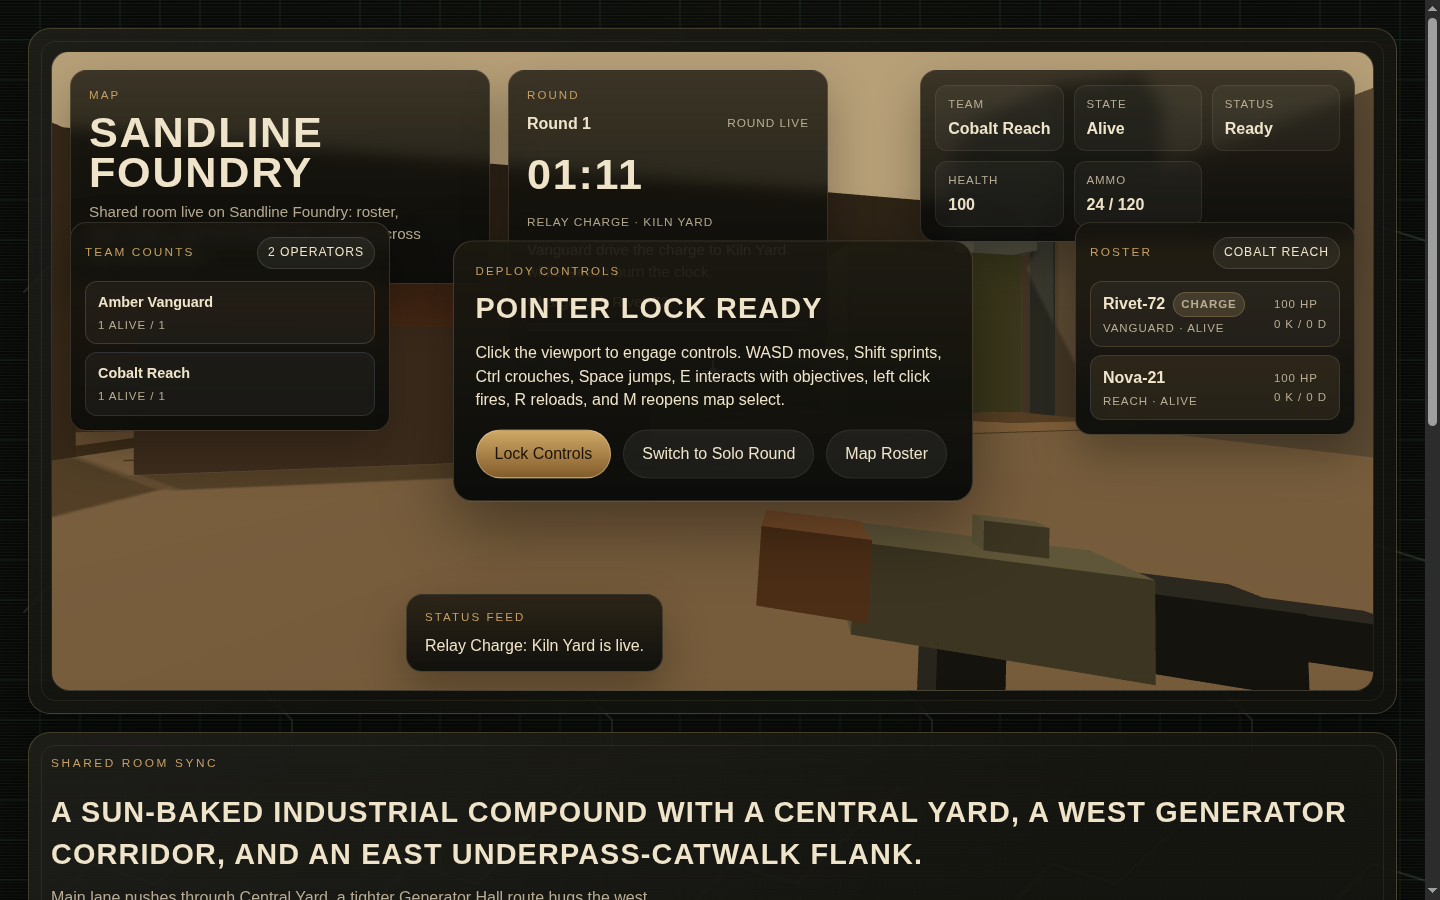
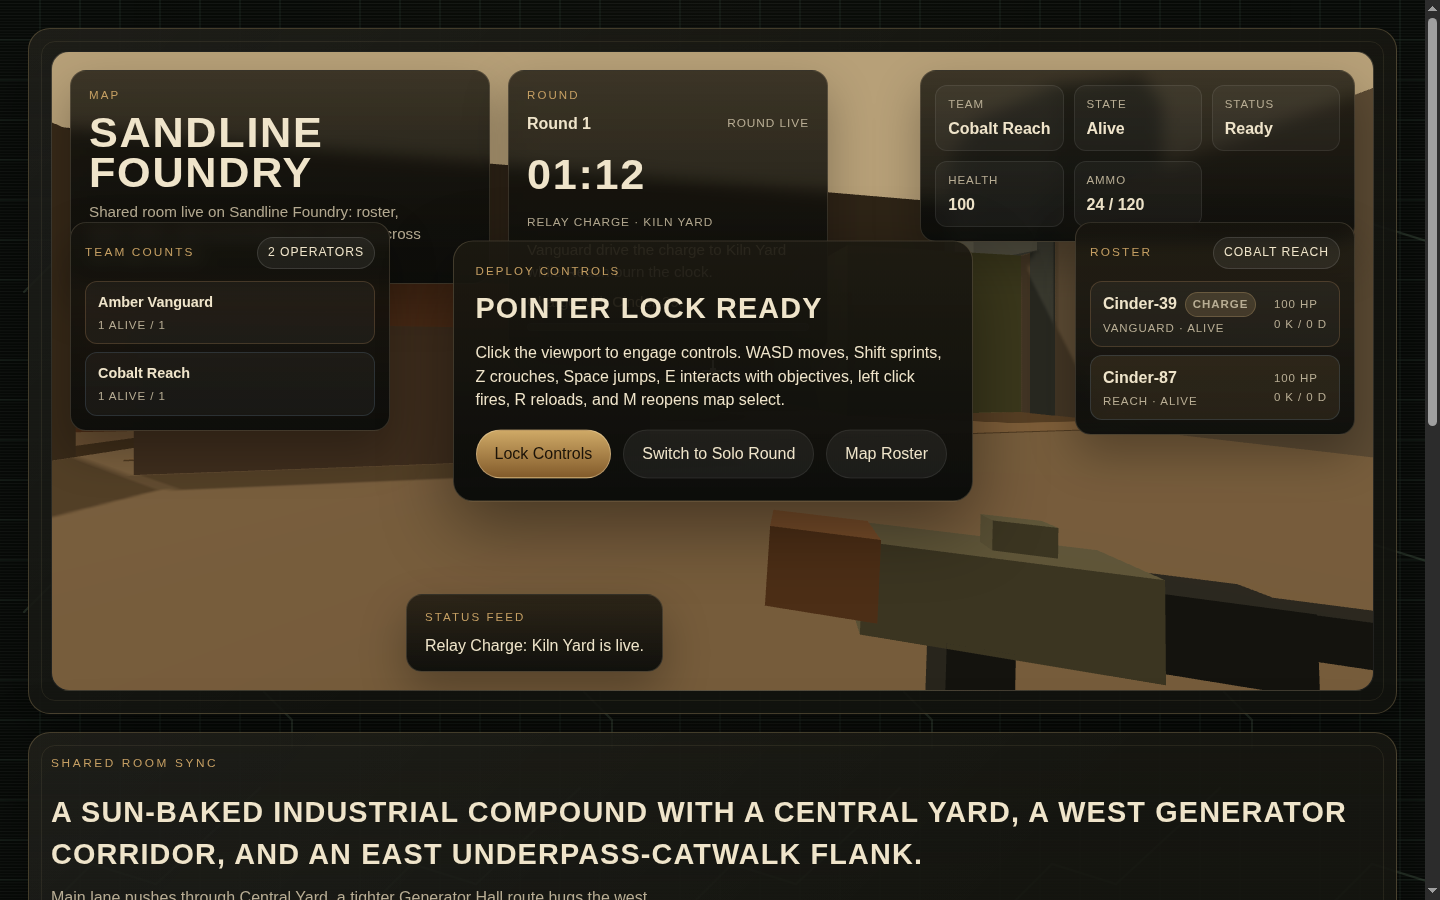
Fix browser-safe gameplay controls

diff --git a/src/game/localMatch.ts b/src/game/localMatch.ts
@@ -49,6 +49,13 @@ import {
   type PlayerMovementState,
 } from "./playerMovement";
 import {
+  CLASSIC_CROUCH_KEY_CODES,
+  CROUCH_KEY_CODES,
+  SPRINT_KEY_CODES,
+  crouchControlLabel,
+  hasAnyKey,
+} from "./controls";
+import {
   createBombRuntimeState,
   currentBombProgress,
   hydrateBombRuntimeState,
@@ -127,6 +134,7 @@ const PLAYER_NOISE_INTERVAL = 0.28;
 const PLAYER_NOISE_HEARING_RADIUS = 19;
 const ENEMY_CROUCH_EYE_HEIGHT = 1.08;
 const ENEMY_STANDING_EYE_HEIGHT = 1.45;
+const CAPTURED_KEY_EVENT_OPTIONS = { capture: true };
 
 const ENEMY_NAMES = ["Copper-2", "Vale-3", "Rook-4"];
 
@@ -185,6 +193,7 @@ export interface LocalMatchSnapshot {
 interface LocalMatchOptions {
   mode: MatchMode;
   teamPreference: TeamPreference;
+  classicCrouchAlias: boolean;
   onActionRequest?: (action: "catalog" | "menu") => void;
   onSnapshot: (snapshot: LocalMatchSnapshot) => void;
 }
@@ -323,6 +332,7 @@ export class LocalMatch {
   private fallbackLookEnabled = false;
   private jumpRequested = false;
   private interactHeld = false;
+  private classicCrouchAlias: boolean;
   private playerMoveBlend = 0;
   private playerSpeed = 0;
   private playerGrounded = true;
@@ -367,6 +377,7 @@ export class LocalMatch {
     this.controls.pointerSpeed = 0.88;
     this.controls.addEventListener("lock", this.handlePointerLock);
     this.controls.addEventListener("unlock", this.handlePointerLock);
+    this.classicCrouchAlias = options.classicCrouchAlias;
 
     this.weaponRig = createWeaponRig();
     this.camera.add(this.weaponRig.group);
@@ -737,6 +748,17 @@ export class LocalMatch {
     if (!this.playerDead) {
       this.fallbackLookEnabled = true;
       this.jumpRequested = true;
+    }
+
+    this.emitSnapshot();
+  }
+
+  setClassicCrouchAlias(enabled: boolean): void {
+    this.classicCrouchAlias = enabled;
+
+    if (!enabled) {
+      this.movementKeys.delete("ControlLeft");
+      this.movementKeys.delete("ControlRight");
     }
 
     this.emitSnapshot();
@@ -1482,22 +1504,24 @@ export class LocalMatch {
 
   private attachEvents(): void {
     window.addEventListener("resize", this.handleResize);
-    window.addEventListener("keydown", this.handleKeyDown);
-    window.addEventListener("keyup", this.handleKeyUp);
+    window.addEventListener("keydown", this.handleKeyDown, CAPTURED_KEY_EVENT_OPTIONS);
+    window.addEventListener("keyup", this.handleKeyUp, CAPTURED_KEY_EVENT_OPTIONS);
     window.addEventListener("mousedown", this.handleMouseDown);
     window.addEventListener("mouseup", this.handleMouseUp);
     window.addEventListener("mousemove", this.handleMouseMove);
     window.addEventListener("blur", this.handleBlur);
+    document.addEventListener("visibilitychange", this.handleVisibilityChange);
   }
 
   private detachEvents(): void {
     window.removeEventListener("resize", this.handleResize);
-    window.removeEventListener("keydown", this.handleKeyDown);
-    window.removeEventListener("keyup", this.handleKeyUp);
+    window.removeEventListener("keydown", this.handleKeyDown, CAPTURED_KEY_EVENT_OPTIONS);
+    window.removeEventListener("keyup", this.handleKeyUp, CAPTURED_KEY_EVENT_OPTIONS);
     window.removeEventListener("mousedown", this.handleMouseDown);
     window.removeEventListener("mouseup", this.handleMouseUp);
     window.removeEventListener("mousemove", this.handleMouseMove);
     window.removeEventListener("blur", this.handleBlur);
+    document.removeEventListener("visibilitychange", this.handleVisibilityChange);
     this.controls.removeEventListener("lock", this.handlePointerLock);
     this.controls.removeEventListener("unlock", this.handlePointerLock);
   }
@@ -1514,19 +1538,21 @@ export class LocalMatch {
     if (this.controls.isLocked) {
       this.audio.prime();
     } else {
-      this.primaryFireHeld = false;
+      this.clearActiveInput(true);
     }
 
     this.emitSnapshot();
   };
 
   private readonly handleKeyDown = (event: KeyboardEvent): void => {
+    this.preventDefaultWhenInputCaptured(event);
+
     if (event.repeat) {
       return;
     }
 
     if (event.code === "Escape") {
-      this.fallbackLookEnabled = false;
+      this.clearActiveInput(true);
       if (this.controls.isLocked) {
         this.controls.unlock();
       }
@@ -1565,6 +1591,8 @@ export class LocalMatch {
   };
 
   private readonly handleKeyUp = (event: KeyboardEvent): void => {
+    this.preventDefaultWhenInputCaptured(event);
+
     if (event.code === "KeyE") {
       this.interactHeld = false;
     }
@@ -1617,13 +1645,45 @@ export class LocalMatch {
   };
 
   private readonly handleBlur = (): void => {
+    this.clearActiveInput(true);
+    this.emitSnapshot();
+  };
+
+  private readonly handleVisibilityChange = (): void => {
+    if (!document.hidden) {
+      return;
+    }
+
+    this.clearActiveInput(true);
+    this.emitSnapshot();
+  };
+
+  private clearActiveInput(releaseFallbackLook: boolean): void {
     this.primaryFireHeld = false;
     this.jumpRequested = false;
     this.interactHeld = false;
     this.movementKeys.clear();
-    this.fallbackLookEnabled = false;
-    this.emitSnapshot();
-  };
+    if (releaseFallbackLook) {
+      this.fallbackLookEnabled = false;
+    }
+  }
+
+  private preventDefaultWhenInputCaptured(event: KeyboardEvent): void {
+    if (!this.inputCaptured() || this.isEditableEventTarget(event.target)) {
+      return;
+    }
+
+    event.preventDefault();
+  }
+
+  private isEditableEventTarget(target: EventTarget | null): boolean {
+    return (
+      target instanceof HTMLInputElement ||
+      target instanceof HTMLTextAreaElement ||
+      target instanceof HTMLSelectElement ||
+      (target instanceof HTMLElement && target.isContentEditable)
+    );
+  }
 
   private readonly animate = (): void => {
     this.animationHandle = requestAnimationFrame(this.animate);
@@ -1731,10 +1791,8 @@ export class LocalMatch {
         enabled: this.inputCaptured() && !this.playerDead,
         moveX,
         moveZ,
-        sprinting:
-          this.movementKeys.has("ShiftLeft") || this.movementKeys.has("ShiftRight"),
-        crouching:
-          this.movementKeys.has("ControlLeft") || this.movementKeys.has("ControlRight"),
+        sprinting: hasAnyKey(this.movementKeys, SPRINT_KEY_CODES),
+        crouching: this.crouchHeld(),
         jumpRequested: this.jumpRequested,
       },
       this.tempForward,
@@ -3443,15 +3501,17 @@ export class LocalMatch {
   }
 
   private promptText(): string {
+    const crouchLabel = crouchControlLabel(this.classicCrouchAlias);
+
     if (this.activeMode === "shared") {
-      return "Click the viewport to engage controls. WASD moves, Shift sprints, Ctrl crouches, Space jumps, E interacts with objectives, left click fires, R reloads, and M reopens map select.";
+      return `Click the viewport to engage controls. WASD moves, Shift sprints, ${crouchLabel} crouches, Space jumps, E interacts with objectives, left click fires, R reloads, and M reopens map select.`;
     }
 
     if (this.options.mode === "shared" && this.sharedRoomFallbackReason) {
-      return "Click the viewport to engage controls. Shared-room sync could not start here, so the app stayed in the solo round without crashing. WASD moves, Shift sprints, Ctrl crouches, Space jumps, E interacts with objectives, left click fires, R reloads, and M reopens map select.";
+      return `Click the viewport to engage controls. Shared-room sync could not start here, so the app stayed in the solo round without crashing. WASD moves, Shift sprints, ${crouchLabel} crouches, Space jumps, E interacts with objectives, left click fires, R reloads, and M reopens map select.`;
     }
 
-    return "Click the viewport to engage controls. Pointer lock is used when available; fallback mouse-look stays browser-safe. WASD moves, Shift sprints, Ctrl crouches, Space jumps, E interacts with objectives, left click fires, R reloads, and M reopens map select.";
+    return `Click the viewport to engage controls. Pointer lock is used when available; fallback mouse-look stays browser-safe. WASD moves, Shift sprints, ${crouchLabel} crouches, Space jumps, E interacts with objectives, left click fires, R reloads, and M reopens map select.`;
   }
 
   private publishRoomState(force = false): void {
@@ -3487,6 +3547,13 @@ export class LocalMatch {
 
   private inputCaptured(): boolean {
     return this.controls.isLocked || this.fallbackLookEnabled;
+  }
+
+  private crouchHeld(): boolean {
+    return (
+      hasAnyKey(this.movementKeys, CROUCH_KEY_CODES) ||
+      (this.classicCrouchAlias && hasAnyKey(this.movementKeys, CLASSIC_CROUCH_KEY_CODES))
+    );
   }
 
   private enemyEyeHeight(enemy: EnemyActor, stance = enemy.ai.stance): number {

diff --git a/src/ui/templates.ts b/src/ui/templates.ts
@@ -1,6 +1,7 @@
 import { missionBadges } from "../game/missions";
 import type { MatchMode } from "../game/multiplayerRoom";
 import { TEAM_ORDER, getTeamDefinition, teamPreferenceLabel } from "../game/teams";
+import { crouchControlLabel } from "../game/controls";
 import type { MapDefinition, TeamPreference } from "../types";
 import { renderPreviewSvg } from "./previewSvg";
 
@@ -109,9 +110,9 @@ function mapRibbonButton(map: MapDefinition, activeMapId: string, mode: MatchMod
   `;
 }
 
-function controlHint(label: string, text: string): string {
+function controlHint(label: string, text: string, dataUi?: string): string {
   return `
-    <div class="control-hint">
+    <div class="control-hint" ${dataUi ? `data-ui="${dataUi}"` : ""}>
       <p>${escapeHtml(label)}</p>
       <span>${escapeHtml(text)}</span>
     </div>
@@ -195,11 +196,13 @@ export function renderMapStage(
   maps: MapDefinition[],
   mode: MatchMode,
   teamPreference: TeamPreference,
+  classicCrouchAlias: boolean,
 ): string {
   const modeEyebrow = mode === "shared" ? "Shared Room Sync" : "Solo Round";
   const switchModeLabel = mode === "shared" ? "Switch to Solo Round" : "Switch to Shared Room";
   const switchMode = mode === "shared" ? "local" : "shared";
   const missionLabels = missionBadges(map);
+  const crouchLabel = crouchControlLabel(classicCrouchAlias);
 
   return `
     <section class="screen screen--match">
@@ -291,7 +294,7 @@ export function renderMapStage(
                 <p class="hud-label">Deploy Controls</p>
                 <h2>Pointer Lock Ready</h2>
                 <p data-ui="prompt">
-                  Click the viewport to lock the mouse. WASD moves, Shift sprints, Ctrl crouches, Space jumps, E interacts with objectives, left click fires, R reloads, and M reopens map select.
+                  Click the viewport to lock the mouse. WASD moves, Shift sprints, ${escapeHtml(crouchLabel)} crouches, Space jumps, E interacts with objectives, left click fires, R reloads, and M reopens map select.
                 </p>
                 <div class="hud-overlay__actions">
                   <button class="button button--primary" data-action="lock-match">Lock Controls</button>
@@ -321,11 +324,12 @@ export function renderMapStage(
           <div class="match-console__actions">
             <button class="button" data-action="show-catalog">Change Map</button>
             <button class="button" data-action="open-map" data-mode="${switchMode}" data-map-id="${map.id}">${switchModeLabel}</button>
+            <button class="button" data-action="toggle-classic-crouch" data-ui="classic-crouch-toggle" aria-pressed="${classicCrouchAlias}">Ctrl Crouch ${classicCrouchAlias ? "On" : "Off"}</button>
             <button class="button button--primary" data-action="show-menu">Return to Briefing</button>
           </div>
           <div class="control-grid">
             ${controlHint("Move", "WASD + Shift")}
-            ${controlHint("Crouch", "Ctrl")}
+            ${controlHint("Crouch", crouchLabel, "crouch-control")}
             ${controlHint("Jump", "Space")}
             ${controlHint("Interact", "E")}
             ${controlHint("Shoot", "Left Click")}

diff --git a/src/ui/app.ts b/src/ui/app.ts
@@ -1,4 +1,8 @@
 import { featuredMap, getMapById, mapCatalog } from "../data/maps";
+import {
+  CLASSIC_CROUCH_STORAGE_KEY,
+  crouchControlLabel,
+} from "../game/controls";
 import type { LocalMatch, LocalMatchSnapshot } from "../game/localMatch";
 import type { MatchMode } from "../game/multiplayerRoom";
 import { getTeamDefinition, isTeamId } from "../game/teams";
@@ -7,11 +11,28 @@ import { renderCatalog, renderMapStage, renderMenu } from "./templates";
 
 type Screen = "menu" | "catalog" | "stage";
 
+function readClassicCrouchAlias(): boolean {
+  try {
+    return localStorage.getItem(CLASSIC_CROUCH_STORAGE_KEY) === "true";
+  } catch {
+    return false;
+  }
+}
+
+function writeClassicCrouchAlias(enabled: boolean): void {
+  try {
+    localStorage.setItem(CLASSIC_CROUCH_STORAGE_KEY, String(enabled));
+  } catch {
+    // Storage can be unavailable in hardened browser contexts.
+  }
+}
+
 export class TacticalShellApp {
   private screen: Screen = "menu";
   private activeMapId = featuredMap.id;
   private activeMode: MatchMode = "shared";
   private teamPreference: TeamPreference = "auto";
+  private classicCrouchAlias = readClassicCrouchAlias();
   private match?: LocalMatch;
   private renderToken = 0;
 
@@ -60,6 +81,12 @@ export class TacticalShellApp {
       case "lock-match":
         this.match?.requestPointerLock();
         return;
+      case "toggle-classic-crouch":
+        this.classicCrouchAlias = !this.classicCrouchAlias;
+        writeClassicCrouchAlias(this.classicCrouchAlias);
+        this.match?.setClassicCrouchAlias(this.classicCrouchAlias);
+        this.syncClassicCrouchUi();
+        return;
       case "set-team":
         if (!team) {
           return;
@@ -100,6 +127,7 @@ export class TacticalShellApp {
       mapCatalog,
       this.activeMode,
       this.teamPreference,
+      this.classicCrouchAlias,
     );
 
     const host = this.root.querySelector<HTMLElement>("[data-world-host]");
@@ -133,6 +161,7 @@ export class TacticalShellApp {
       match = new LocalMatch(host, map, {
         mode: this.activeMode,
         teamPreference: this.teamPreference,
+        classicCrouchAlias: this.classicCrouchAlias,
         onActionRequest: (action) => {
           if (token !== this.renderToken) {
             return;
@@ -309,6 +338,22 @@ export class TacticalShellApp {
     }
     if (objectiveProgressFill) {
       objectiveProgressFill.style.width = `${Math.max(0, Math.min(1, snapshot.objectiveProgress)) * 100}%`;
+    }
+
+    this.syncClassicCrouchUi();
+  }
+
+  private syncClassicCrouchUi(): void {
+    const label = crouchControlLabel(this.classicCrouchAlias);
+    const crouchHint = this.root.querySelector<HTMLElement>('[data-ui="crouch-control"] span');
+    if (crouchHint) {
+      crouchHint.textContent = label;
+    }
+
+    const toggle = this.root.querySelector<HTMLButtonElement>('[data-ui="classic-crouch-toggle"]');
+    if (toggle) {
+      toggle.textContent = `Ctrl Crouch ${this.classicCrouchAlias ? "On" : "Off"}`;
+      toggle.setAttribute("aria-pressed", String(this.classicCrouchAlias));
     }
   }
 

diff --git a/src/game/controls.ts b/src/game/controls.ts
@@ -1,0 +1,16 @@
+export const CROUCH_KEY_CODES = ["KeyZ"] as const;
+export const CLASSIC_CROUCH_KEY_CODES = ["ControlLeft", "ControlRight"] as const;
+export const SPRINT_KEY_CODES = ["ShiftLeft", "ShiftRight"] as const;
+
+export const CROUCH_CONTROL_LABEL = "Z";
+export const CLASSIC_CROUCH_CONTROL_LABEL = "Z / Ctrl";
+export const CLASSIC_CROUCH_STORAGE_KEY = "dustline.classicCrouchAlias";
+
+export function hasAnyKey(keys: ReadonlySet<string>, codes: readonly string[]): boolean {
+  return codes.some((code) => keys.has(code));
+}
+
+export function crouchControlLabel(classicCrouchAlias: boolean): string {
+  return classicCrouchAlias ? CLASSIC_CROUCH_CONTROL_LABEL : CROUCH_CONTROL_LABEL;
+}
+

diff --git a/README.md b/README.md
@@ -27,7 +27,8 @@ Browser-only tactical FPS homage built on Vite, TypeScript, and Three.js. The cu
 
 - `WASD`: move
 - `Shift`: sprint
-- `Ctrl`: crouch
+- `Z`: crouch
+- `Ctrl`: optional classic crouch alias when enabled in match controls
 - `Space`: jump
 - `E`: objective interaction
 - Left click: fire
